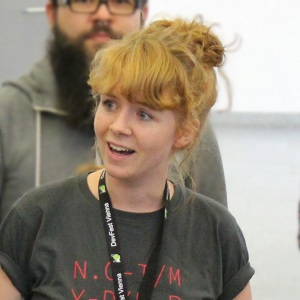
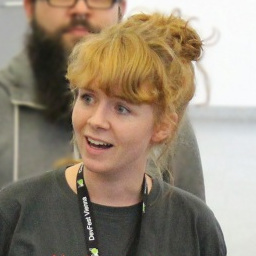
Improved images, added sponsors

diff --git a/_includes/sponsors.html b/_includes/sponsors.html
@@ -6,31 +6,26 @@
             <h5>Platinum</h5>
             <ul class="list-inline">
                 <li>
-                    <a href="http://www.intel.com/" target="_blank">
-                        <img src="{{ site.baseurl }}/img/sponsors/logo-intel.png" alt="Intel">
+                    <a href="http://www.google.com" target="_blank">
+                        <img src="{{ site.baseurl }}/img/sponsors/google.svg" alt="Google">
                     </a>
                 </li>
                 <li>
-                    <a href="http://www.google.com" target="_blank">
-                        <img src="{{ site.baseurl }}/img/sponsors/google.svg" alt="Google">
+                    <a href="http://www.intel.com/" target="_blank">
+                        <img src="{{ site.baseurl }}/img/sponsors/logo-intel.png" alt="Intel">
                     </a>
                 </li>
             </ul>
             <h5>Gold</h5>
             <ul class="list-inline">
                 <li>
-                    <a href="#" target="_blank">
-                        <img src="{{ site.baseurl }}/img/sponsors/google.svg" alt="sponsor-1">
+                    <a href="http://www.willhaben.at/" target="_blank">
+                        <img src="{{ site.baseurl }}/img/sponsors/logo-willhaben.png" alt="willhaben.at">
                     </a>
                 </li>
                 <li>
-                    <a href="#" target="_blank">
-                        <img src="{{ site.baseurl }}/img/sponsors/gdg-lviv.svg" alt="sponsor-2">
-                    </a>
-                </li>
-                <li>
-                    <a href="#" target="_blank">
-                        <img src="{{ site.baseurl }}/img/sponsors/gdg-x.svg" alt="sponsor-3">
+                    <a href="http://www.codeship.io/" target="_blank">
+                        <img src="{{ site.baseurl }}/img/sponsors/logo-codeship.io" alt="codeship.io">
                     </a>
                 </li>
             </ul>

diff --git a/_includes/about.html b/_includes/about.html
@@ -23,7 +23,7 @@
                     <div class="animated hiding" data-animation="fadeInDown" data-delay="1000">
                         <h5>Hackathon</h5>
                         <img class="img-circle" src="{{ site.baseurl }}/img/hackathon.jpg" height="128" width="128" alt="Hackathons">
-                        <p>Full-day free-style hackaton! Want some real teambuilding on friday? Grab your team and join our hackathon!</p>
+                        <p>Full-day free-style hackathon! Want some real teambuilding on Sunday? Grab your team and join our hackathon!</p>
                     </div>
                 </div>
             </div>
